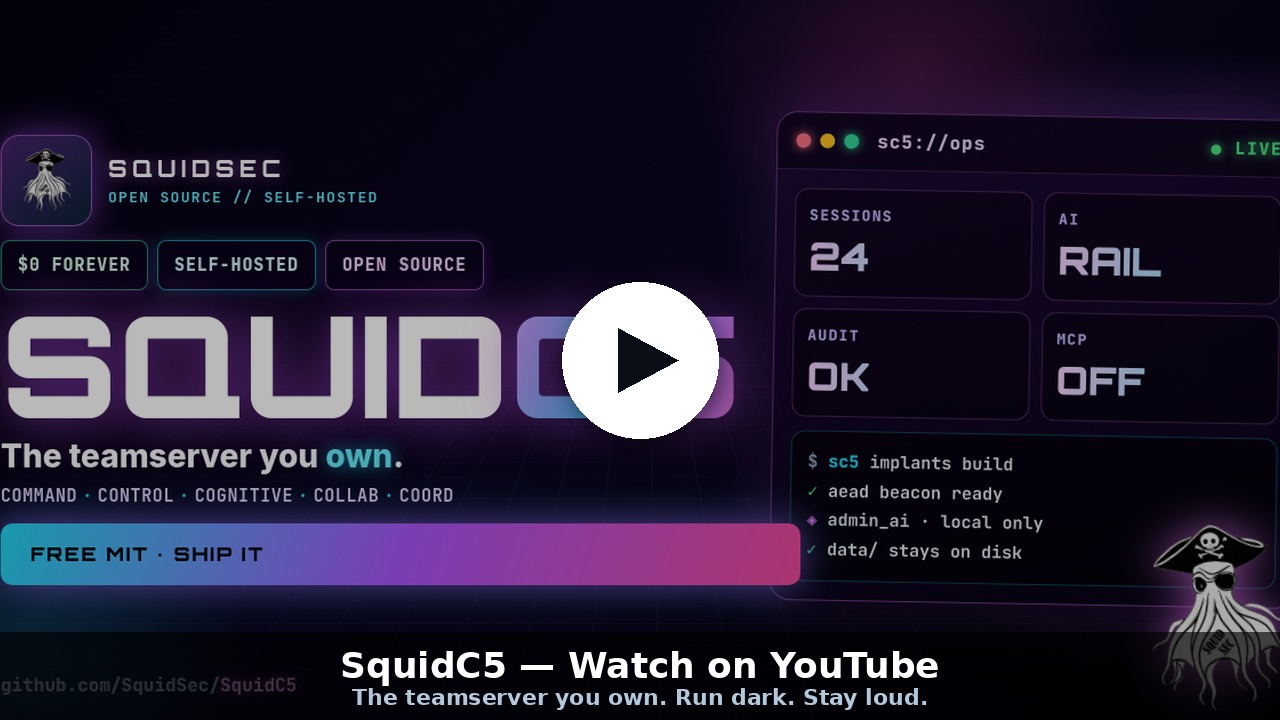
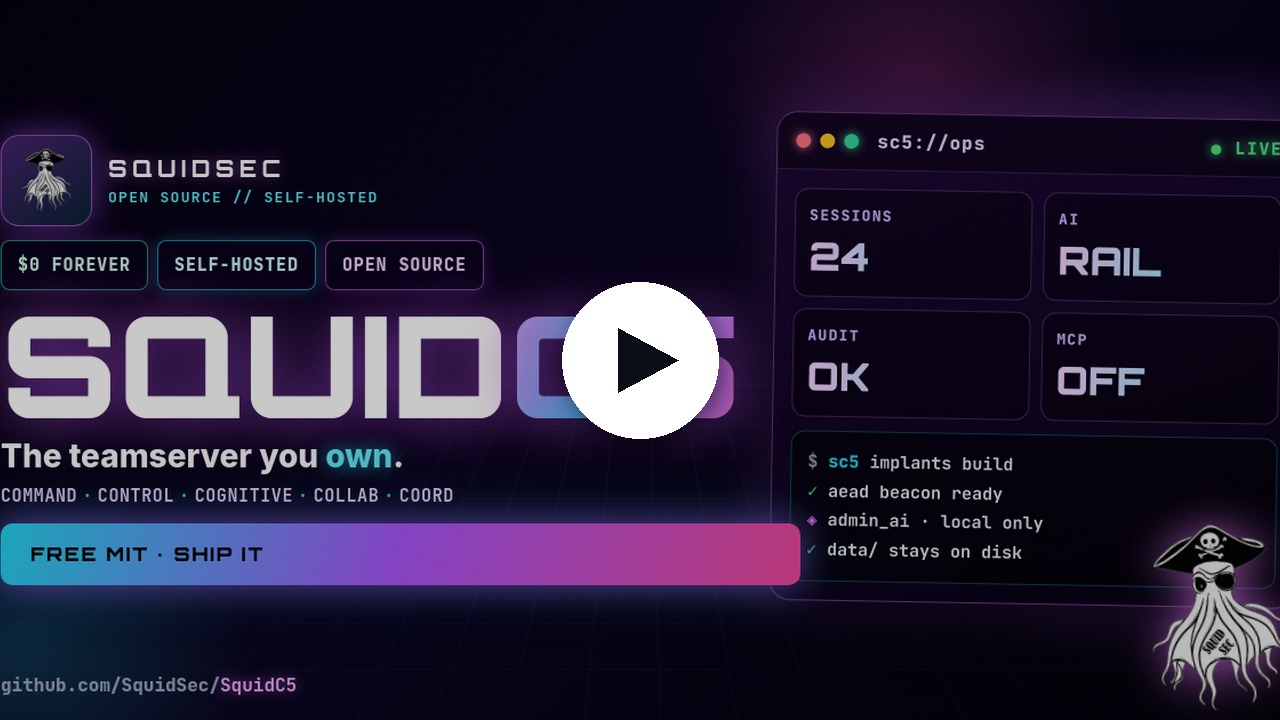
docs: point README trailer at new YouTube video UPGqVn81mVw

Changed region(s): [[0.0, 0.8556, 0.75, 1.0], [0.875, 0.8556, 1.0, 0.9778]]

diff --git a/README.md b/README.md
@@ -28,13 +28,13 @@ Security-first, AI-native C5 teamserver for **authorized** red team and penetrat
 > **Authorized use only.** Unauthorized access is illegal.
 
 <p align="center">
-  <a href="https://www.youtube.com/watch?v=cIY6B8IrYEA">
+  <a href="https://www.youtube.com/watch?v=UPGqVn81mVw">
     <img src="assets/squidc5-youtube.jpg" alt="SquidC5 — Watch on YouTube" width="90%">
   </a>
   <br>
-  <a href="https://www.youtube.com/watch?v=cIY6B8IrYEA"><strong>▶ Watch SquidC5 on YouTube</strong></a>
+  <a href="https://www.youtube.com/watch?v=UPGqVn81mVw"><strong>▶ Watch SquidC5 on YouTube</strong></a>
   &nbsp;·&nbsp;
-  <a href="https://youtu.be/cIY6B8IrYEA">youtu.be/cIY6B8IrYEA</a>
+  <a href="https://youtu.be/UPGqVn81mVw">youtu.be/UPGqVn81mVw</a>
 </p>
 
 ### What C5 means
